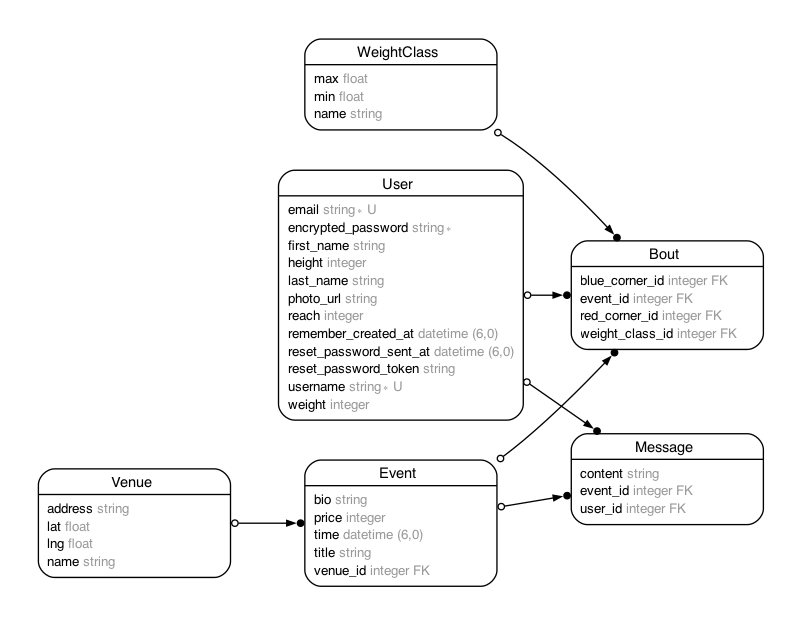
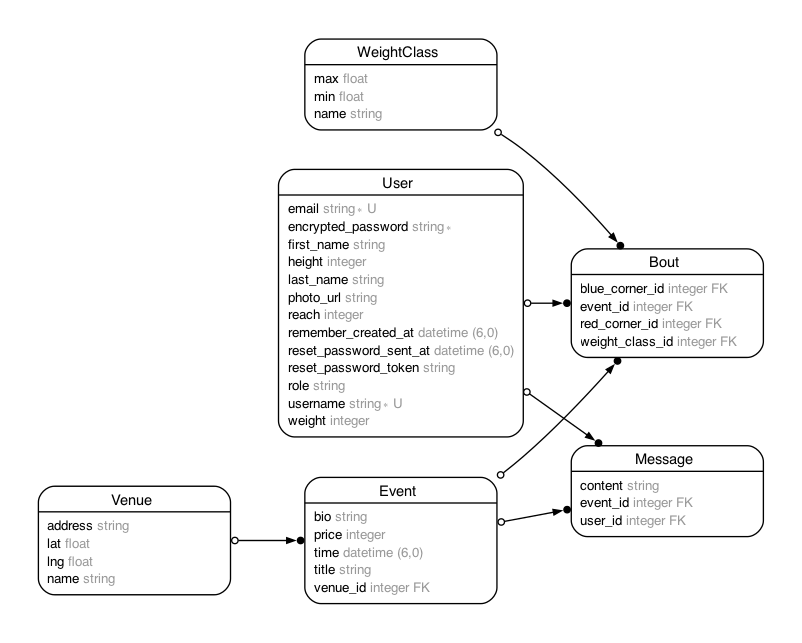
Add role column to user

diff --git a/db/schema.rb b/db/schema.rb
@@ -10,7 +10,7 @@
 #
 # It's strongly recommended that you check this file into your version control system.
 
-ActiveRecord::Schema[7.0].define(version: 2023_10_29_192210) do
+ActiveRecord::Schema[7.0].define(version: 2023_11_06_154449) do
   create_table "bouts", force: :cascade do |t|
     t.integer "red_corner_id"
     t.integer "blue_corner_id"
@@ -53,6 +53,7 @@ ActiveRecord::Schema[7.0].define(version: 2023_10_29_192210) do
     t.datetime "created_at", null: false
     t.datetime "updated_at", null: false
     t.string "username"
+    t.string "role"
     t.index ["email"], name: "index_users_on_email", unique: true
     t.index ["reset_password_token"], name: "index_users_on_reset_password_token", unique: true
   end

diff --git a/app/models/user.rb b/app/models/user.rb
@@ -35,6 +35,7 @@ class User < ApplicationRecord
   has_many :accepted_bouts, class_name: "Bout", foreign_key: "blue_corner_id"
   has_many :messages, class_name: "Message", foreign_key: "user_id"
   
+  enum role: {admin: "admin", fighter: "fighter", promoter: "promoter", sample:}
   #TODO: Point to weightclass ID on signup
 
   def weight_class

diff --git a/db/migrate/20231106154449_add_role_to_user.rb b/db/migrate/20231106154449_add_role_to_user.rb
@@ -1,0 +1,5 @@
+class AddRoleToUser < ActiveRecord::Migration[7.0]
+  def change
+    add_column :users, :role, :string
+  end
+end
